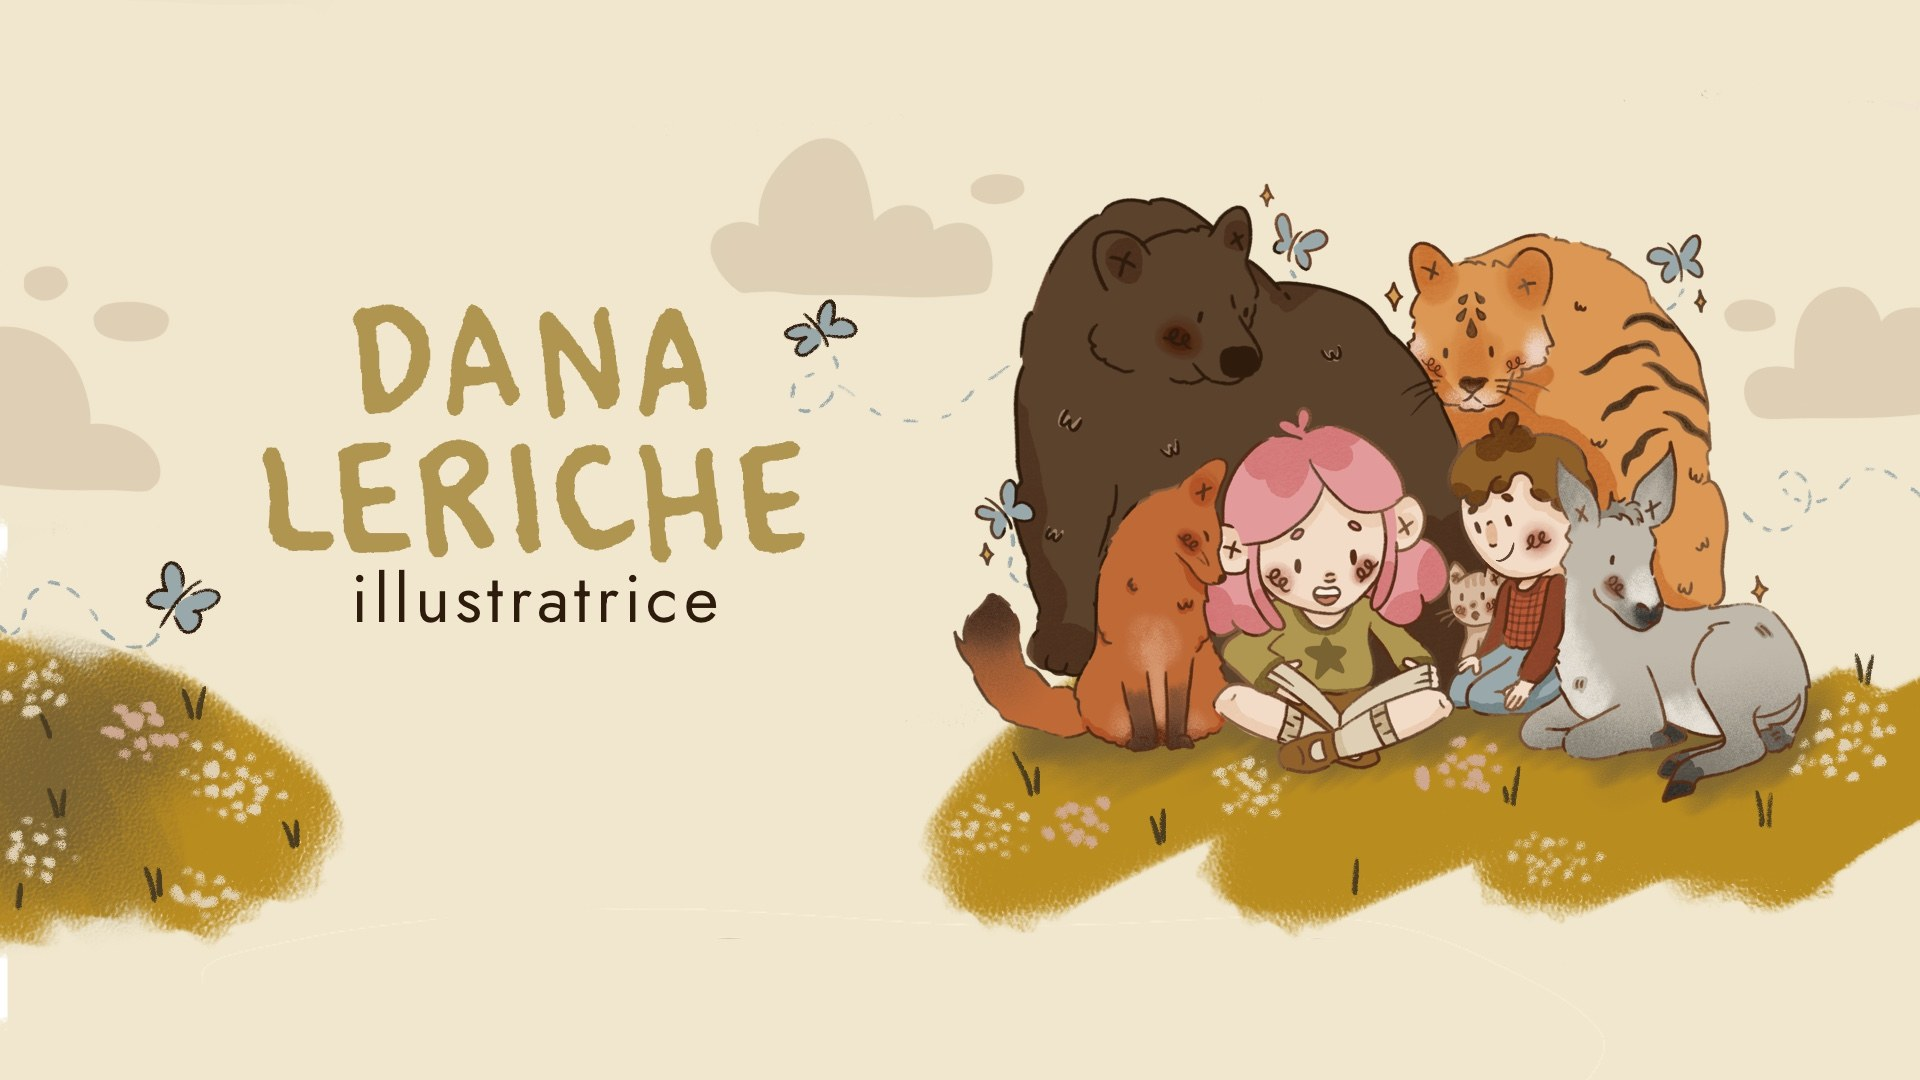
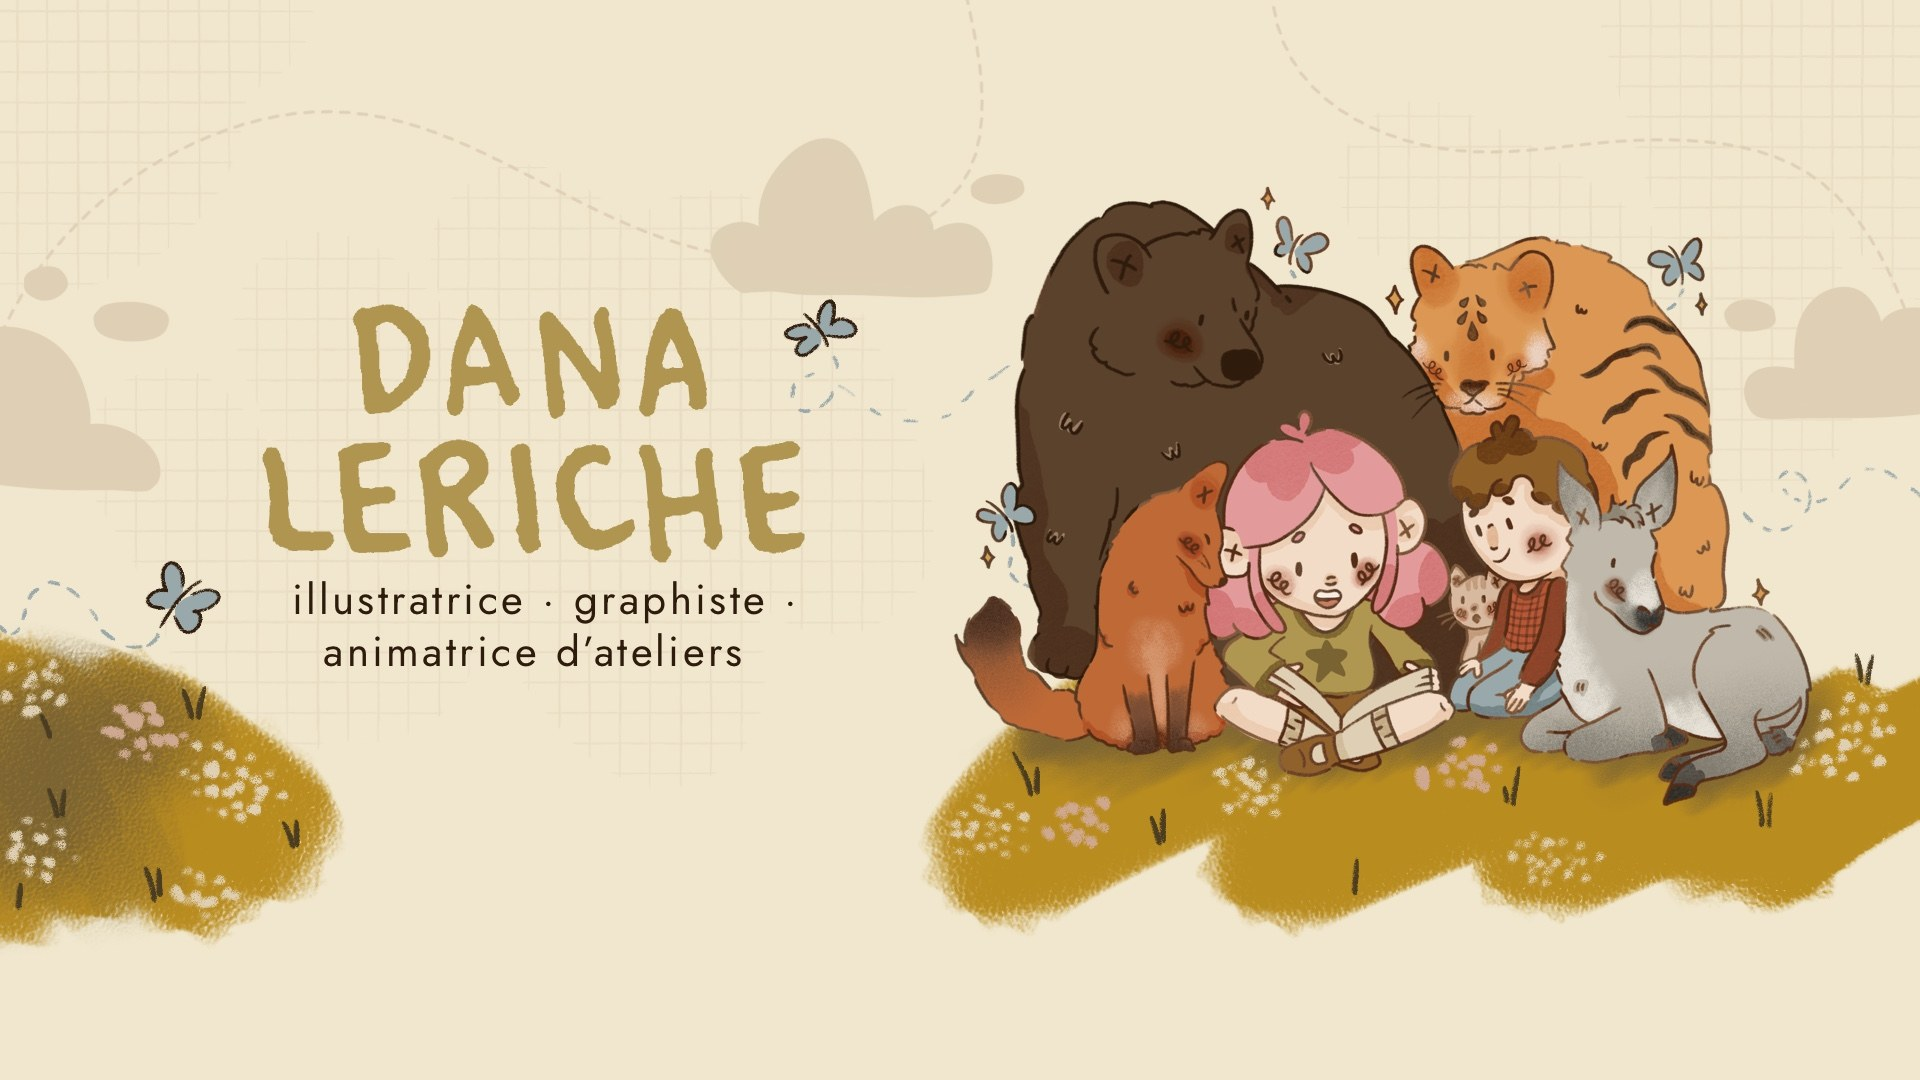
Nouvelle bannière d'accueil avec les trois métiers (#68)
La bannière envoyée par Dana porte désormais « illustratrice ·
graphiste · animatrice d'ateliers » dans le dessin. Profil Display P3
conservé, version mobile recomposée à partir des mêmes découpes, et
texte alternatif mis à jour.

Claude-Session: https://claude.ai/code/session_01BtaB1jaWDtbsoScgb48y47

diff --git a/index.html b/index.html
@@ -21,7 +21,7 @@
   <link rel="preconnect" href="https://fonts.gstatic.com" crossorigin>
   <link href="https://fonts.googleapis.com/css2?family=Jost:wght@300;400;500;600&display=swap" rel="stylesheet">
   <link href="https://api.fontshare.com/v2/css?f%5B%5D=comico@400&display=swap" rel="stylesheet">
-  <link rel="stylesheet" href="styles.css?v=35">
+  <link rel="stylesheet" href="styles.css?v=36">
 </head>
 <body class="page-home">
 
@@ -57,15 +57,15 @@
   </header>
 
   <section class="hero">
-    <!-- le titre « Dana Leriche — illustratrice » fait partie de l'illustration ;
+    <!-- le titre et les trois métiers font partie de l&#39;illustration ;
          le h1 reste dans le code pour les lecteurs d'écran et les moteurs de recherche -->
     <h1 class="visually-hidden">Dana Leriche — illustratrice, graphiste, animatrice d'ateliers</h1>
     <picture>
       <!-- sur téléphone : version recadrée, titre au-dessus de la scène -->
       <source media="(max-width: 720px)" srcset="photo/hero-dana-leriche-mobile.jpg"
-              width="1000" height="1277">
+              width="1000" height="1337">
       <img class="hero-banner" src="photo/hero-dana-leriche.jpg" width="1920" height="1080"
-           alt="Dana Leriche, illustratrice — une fillette et un garçon lisent un livre dans l'herbe, entourés d'un ours, d'un tigre, d'un renard, d'un chat et d'un âne">
+           alt="Dana Leriche, illustratrice, graphiste et animatrice d'ateliers — une fillette et un garçon lisent un livre dans l'herbe, entourés d'un ours, d'un tigre, d'un renard, d'un chat et d'un âne">
     </picture>
   </section>
 

diff --git a/commandes.html b/commandes.html
@@ -21,7 +21,7 @@
   <link rel="preconnect" href="https://fonts.gstatic.com" crossorigin>
   <link href="https://fonts.googleapis.com/css2?family=Jost:wght@300;400;500;600&display=swap" rel="stylesheet">
   <link href="https://api.fontshare.com/v2/css?f%5B%5D=comico@400&display=swap" rel="stylesheet">
-  <link rel="stylesheet" href="styles.css?v=35">
+  <link rel="stylesheet" href="styles.css?v=36">
 </head>
 <body class="page-commandes">
 

diff --git a/portfolio.html b/portfolio.html
@@ -21,7 +21,7 @@
   <link rel="preconnect" href="https://fonts.gstatic.com" crossorigin>
   <link href="https://fonts.googleapis.com/css2?family=Jost:wght@300;400;500;600&display=swap" rel="stylesheet">
   <link href="https://api.fontshare.com/v2/css?f%5B%5D=comico@400&display=swap" rel="stylesheet">
-  <link rel="stylesheet" href="styles.css?v=35">
+  <link rel="stylesheet" href="styles.css?v=36">
 </head>
 <body class="page-portfolio">
 

diff --git a/ateliers.html b/ateliers.html
@@ -21,7 +21,7 @@
   <link rel="preconnect" href="https://fonts.gstatic.com" crossorigin>
   <link href="https://fonts.googleapis.com/css2?family=Jost:wght@300;400;500;600&display=swap" rel="stylesheet">
   <link href="https://api.fontshare.com/v2/css?f%5B%5D=comico@400&display=swap" rel="stylesheet">
-  <link rel="stylesheet" href="styles.css?v=35">
+  <link rel="stylesheet" href="styles.css?v=36">
 </head>
 <body class="page-ateliers">
 

diff --git a/boutique.html b/boutique.html
@@ -21,7 +21,7 @@
   <link rel="preconnect" href="https://fonts.gstatic.com" crossorigin>
   <link href="https://fonts.googleapis.com/css2?family=Jost:wght@300;400;500;600&display=swap" rel="stylesheet">
   <link href="https://api.fontshare.com/v2/css?f%5B%5D=comico@400&display=swap" rel="stylesheet">
-  <link rel="stylesheet" href="styles.css?v=35">
+  <link rel="stylesheet" href="styles.css?v=36">
 </head>
 <body class="page-boutique">
 

diff --git a/mail-club.html b/mail-club.html
@@ -21,7 +21,7 @@
   <link rel="preconnect" href="https://fonts.gstatic.com" crossorigin>
   <link href="https://fonts.googleapis.com/css2?family=Jost:wght@300;400;500;600&display=swap" rel="stylesheet">
   <link href="https://api.fontshare.com/v2/css?f%5B%5D=comico@400&display=swap" rel="stylesheet">
-  <link rel="stylesheet" href="styles.css?v=35">
+  <link rel="stylesheet" href="styles.css?v=36">
 </head>
 <body class="page-mailclub">
 

diff --git a/apropos.html b/apropos.html
@@ -21,7 +21,7 @@
   <link rel="preconnect" href="https://fonts.gstatic.com" crossorigin>
   <link href="https://fonts.googleapis.com/css2?family=Jost:wght@300;400;500;600&display=swap" rel="stylesheet">
   <link href="https://api.fontshare.com/v2/css?f%5B%5D=comico@400&display=swap" rel="stylesheet">
-  <link rel="stylesheet" href="styles.css?v=35">
+  <link rel="stylesheet" href="styles.css?v=36">
 </head>
 <body class="page-apropos">
 

diff --git a/cgv.html b/cgv.html
@@ -21,7 +21,7 @@
   <link rel="preconnect" href="https://fonts.gstatic.com" crossorigin>
   <link href="https://fonts.googleapis.com/css2?family=Jost:wght@300;400;500;600&display=swap" rel="stylesheet">
   <link href="https://api.fontshare.com/v2/css?f%5B%5D=comico@400&display=swap" rel="stylesheet">
-  <link rel="stylesheet" href="styles.css?v=35">
+  <link rel="stylesheet" href="styles.css?v=36">
 </head>
 <body class="page-legal">
 

diff --git a/confidentialite.html b/confidentialite.html
@@ -21,7 +21,7 @@
   <link rel="preconnect" href="https://fonts.gstatic.com" crossorigin>
   <link href="https://fonts.googleapis.com/css2?family=Jost:wght@300;400;500;600&display=swap" rel="stylesheet">
   <link href="https://api.fontshare.com/v2/css?f%5B%5D=comico@400&display=swap" rel="stylesheet">
-  <link rel="stylesheet" href="styles.css?v=35">
+  <link rel="stylesheet" href="styles.css?v=36">
 </head>
 <body class="page-legal">
 

diff --git a/mentions-legales.html b/mentions-legales.html
@@ -21,7 +21,7 @@
   <link rel="preconnect" href="https://fonts.gstatic.com" crossorigin>
   <link href="https://fonts.googleapis.com/css2?family=Jost:wght@300;400;500;600&display=swap" rel="stylesheet">
   <link href="https://api.fontshare.com/v2/css?f%5B%5D=comico@400&display=swap" rel="stylesheet">
-  <link rel="stylesheet" href="styles.css?v=35">
+  <link rel="stylesheet" href="styles.css?v=36">
 </head>
 <body class="page-legal">
 

diff --git a/retours.html b/retours.html
@@ -21,7 +21,7 @@
   <link rel="preconnect" href="https://fonts.gstatic.com" crossorigin>
   <link href="https://fonts.googleapis.com/css2?family=Jost:wght@300;400;500;600&display=swap" rel="stylesheet">
   <link href="https://api.fontshare.com/v2/css?f%5B%5D=comico@400&display=swap" rel="stylesheet">
-  <link rel="stylesheet" href="styles.css?v=35">
+  <link rel="stylesheet" href="styles.css?v=36">
 </head>
 <body class="page-legal">
 
